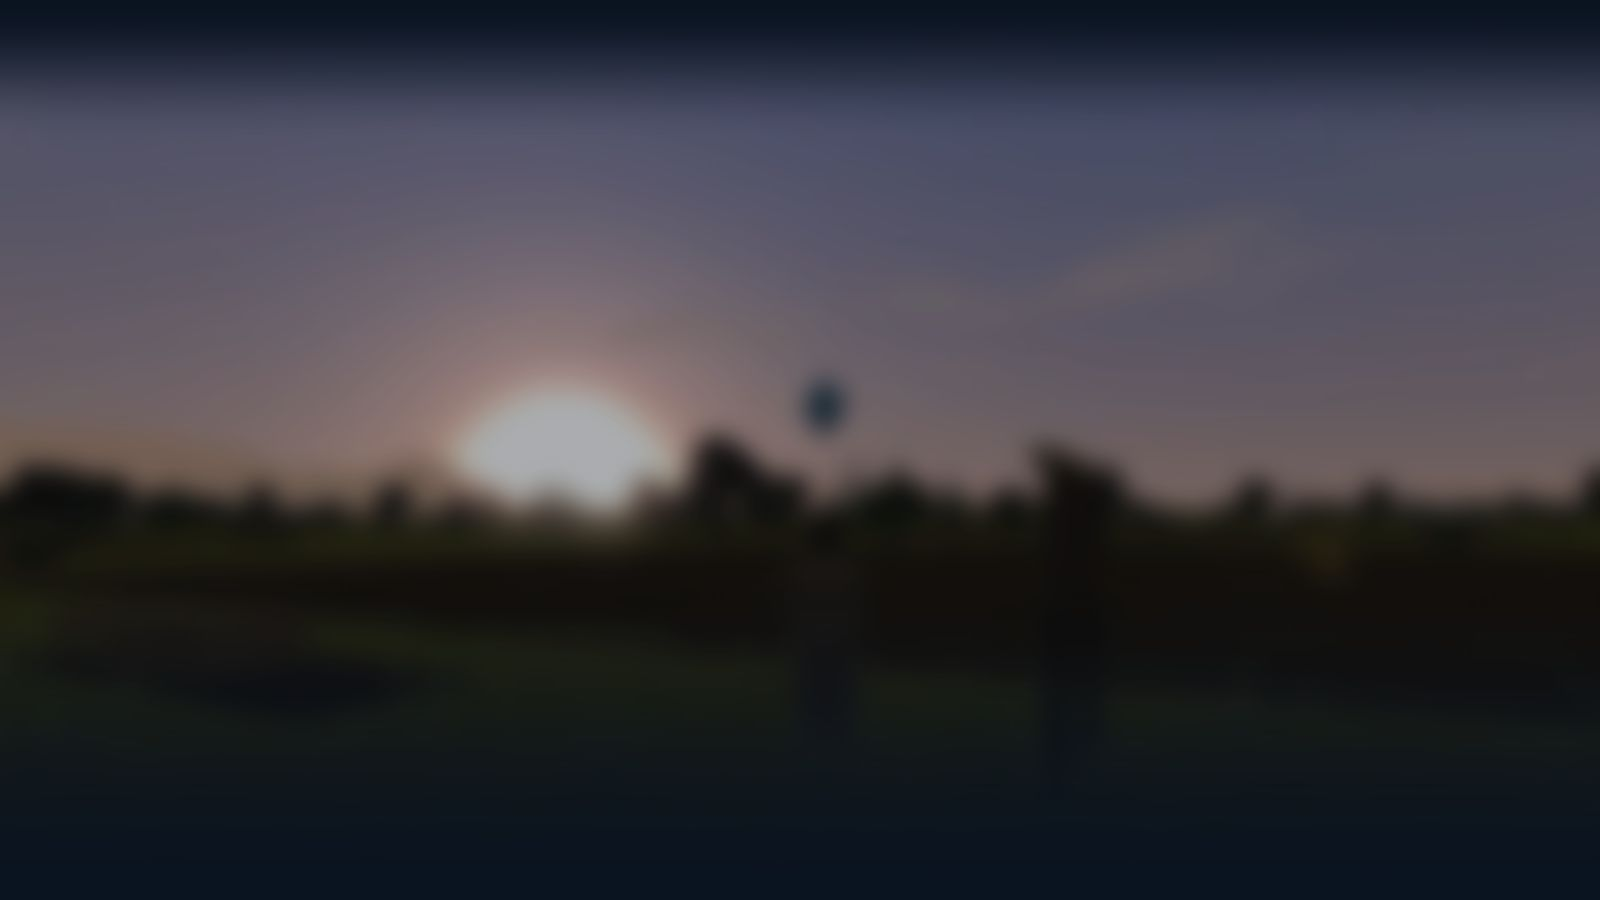
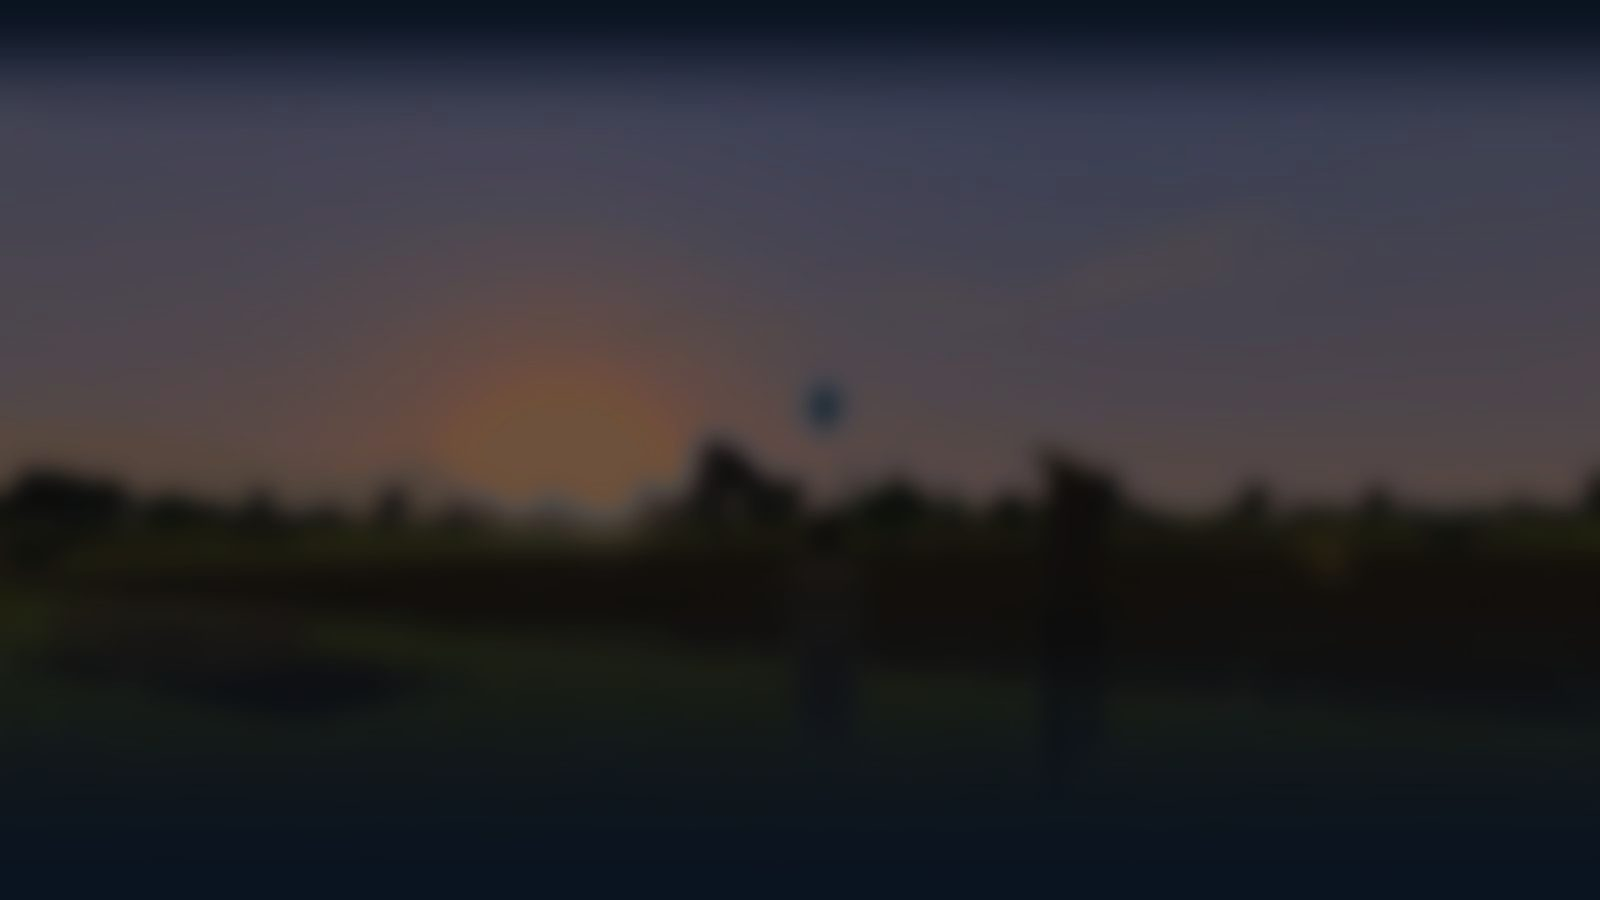
Подвал и запись без упоминания исходного кода; приглушено солнце за летописью

Changed region(s): [[0.0, 0.1867, 1.0, 0.5911]]

diff --git a/_posts/2026-10-11-otkryvaem-polevoy-dnevnik.md b/_posts/2026-10-11-otkryvaem-polevoy-dnevnik.md
@@ -14,7 +14,7 @@ body_en: |
 
   The roadmap is drawn as a star chart. Every update is a star system, and every feature is a planet on its orbit. Planets already in the game shine, and the ones in progress are teal. Hover a system and lines appear to the updates it rests on.
 
-  The map was drawn from the game’s source code: what already works, what each next system rests on, and in which order they are best built. The most important system is 3.0, *Foundation*. It’s an engine rebuild: the world becomes a globe, and the simulation moves to its own thread and becomes predictable. Without it there can be no multiplayer, no other planets and no truly living inhabitants.
+  The map shows what already works, what each next system rests on, and in which order they are best built. The most important system is 3.0, *Foundation*. It’s an engine rebuild: the world becomes a globe, and the simulation moves to its own thread and becomes predictable. Without it there can be no multiplayer, no other planets and no truly living inhabitants.
 
   The dates on the map are approximate: some things will arrive earlier, some later. The order matters more than the dates.
 
@@ -28,7 +28,7 @@ body_en: |
 
 Дорожная карта нарисована как звёздная. Каждое обновление — звёздная система, каждая новая возможность — планета на её орбите. Планеты, которые уже в игре, светятся, а те, что в работе, — бирюзовые. Наведите на систему, и появятся линии к обновлениям, на которые она опирается.
 
-Карта составлена по исходному коду игры: что уже работает, на что опирается каждая следующая система и в каком порядке их выгоднее строить. Самая важная система — 3.0, «Фундамент». Это перестройка движка: мир становится глобусом, а симуляция уходит в отдельный поток и становится предсказуемой. Без этого не получится ни мультиплеер, ни другие планеты, ни по-настоящему живые жители.
+На карте видно, что уже работает, на что опирается каждая следующая система и в каком порядке их выгоднее строить. Самая важная система — 3.0, «Фундамент». Это перестройка движка: мир становится глобусом, а симуляция уходит в отдельный поток и становится предсказуемой. Без этого не получится ни мультиплеер, ни другие планеты, ни по-настоящему живые жители.
 
 Сроки на карте ориентировочные: что-то выйдет раньше, что-то позже. Порядок важнее дат.
 
